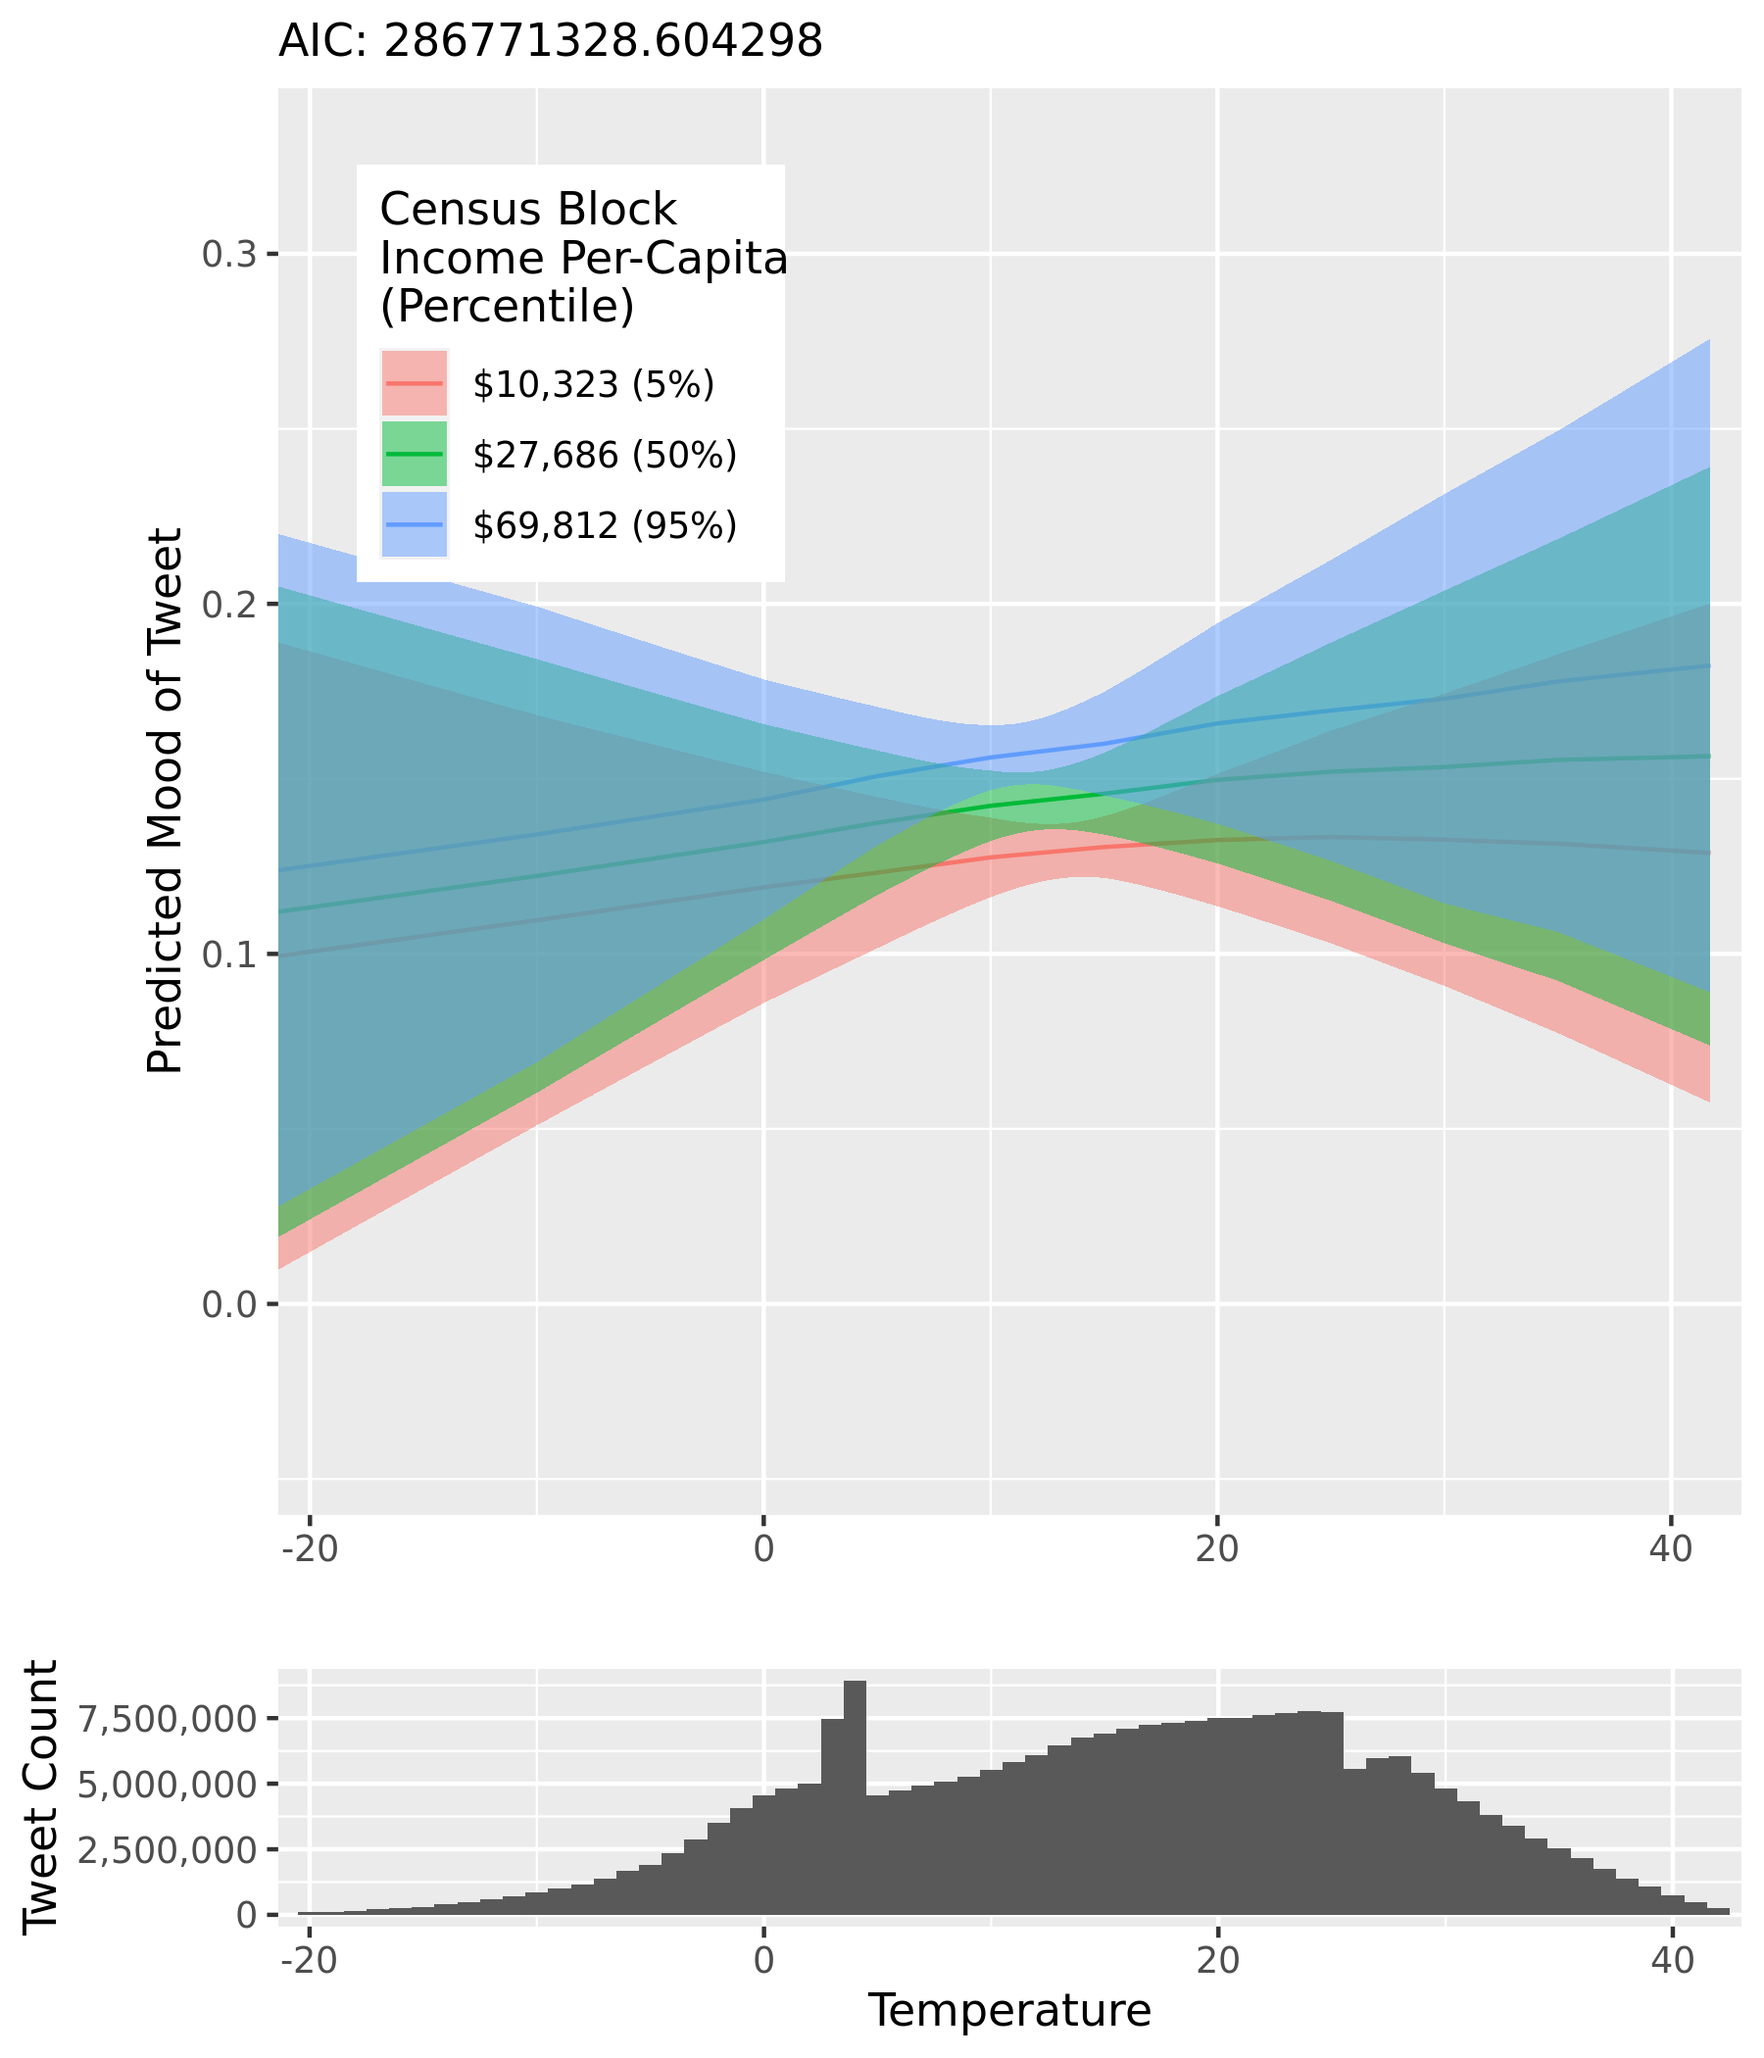
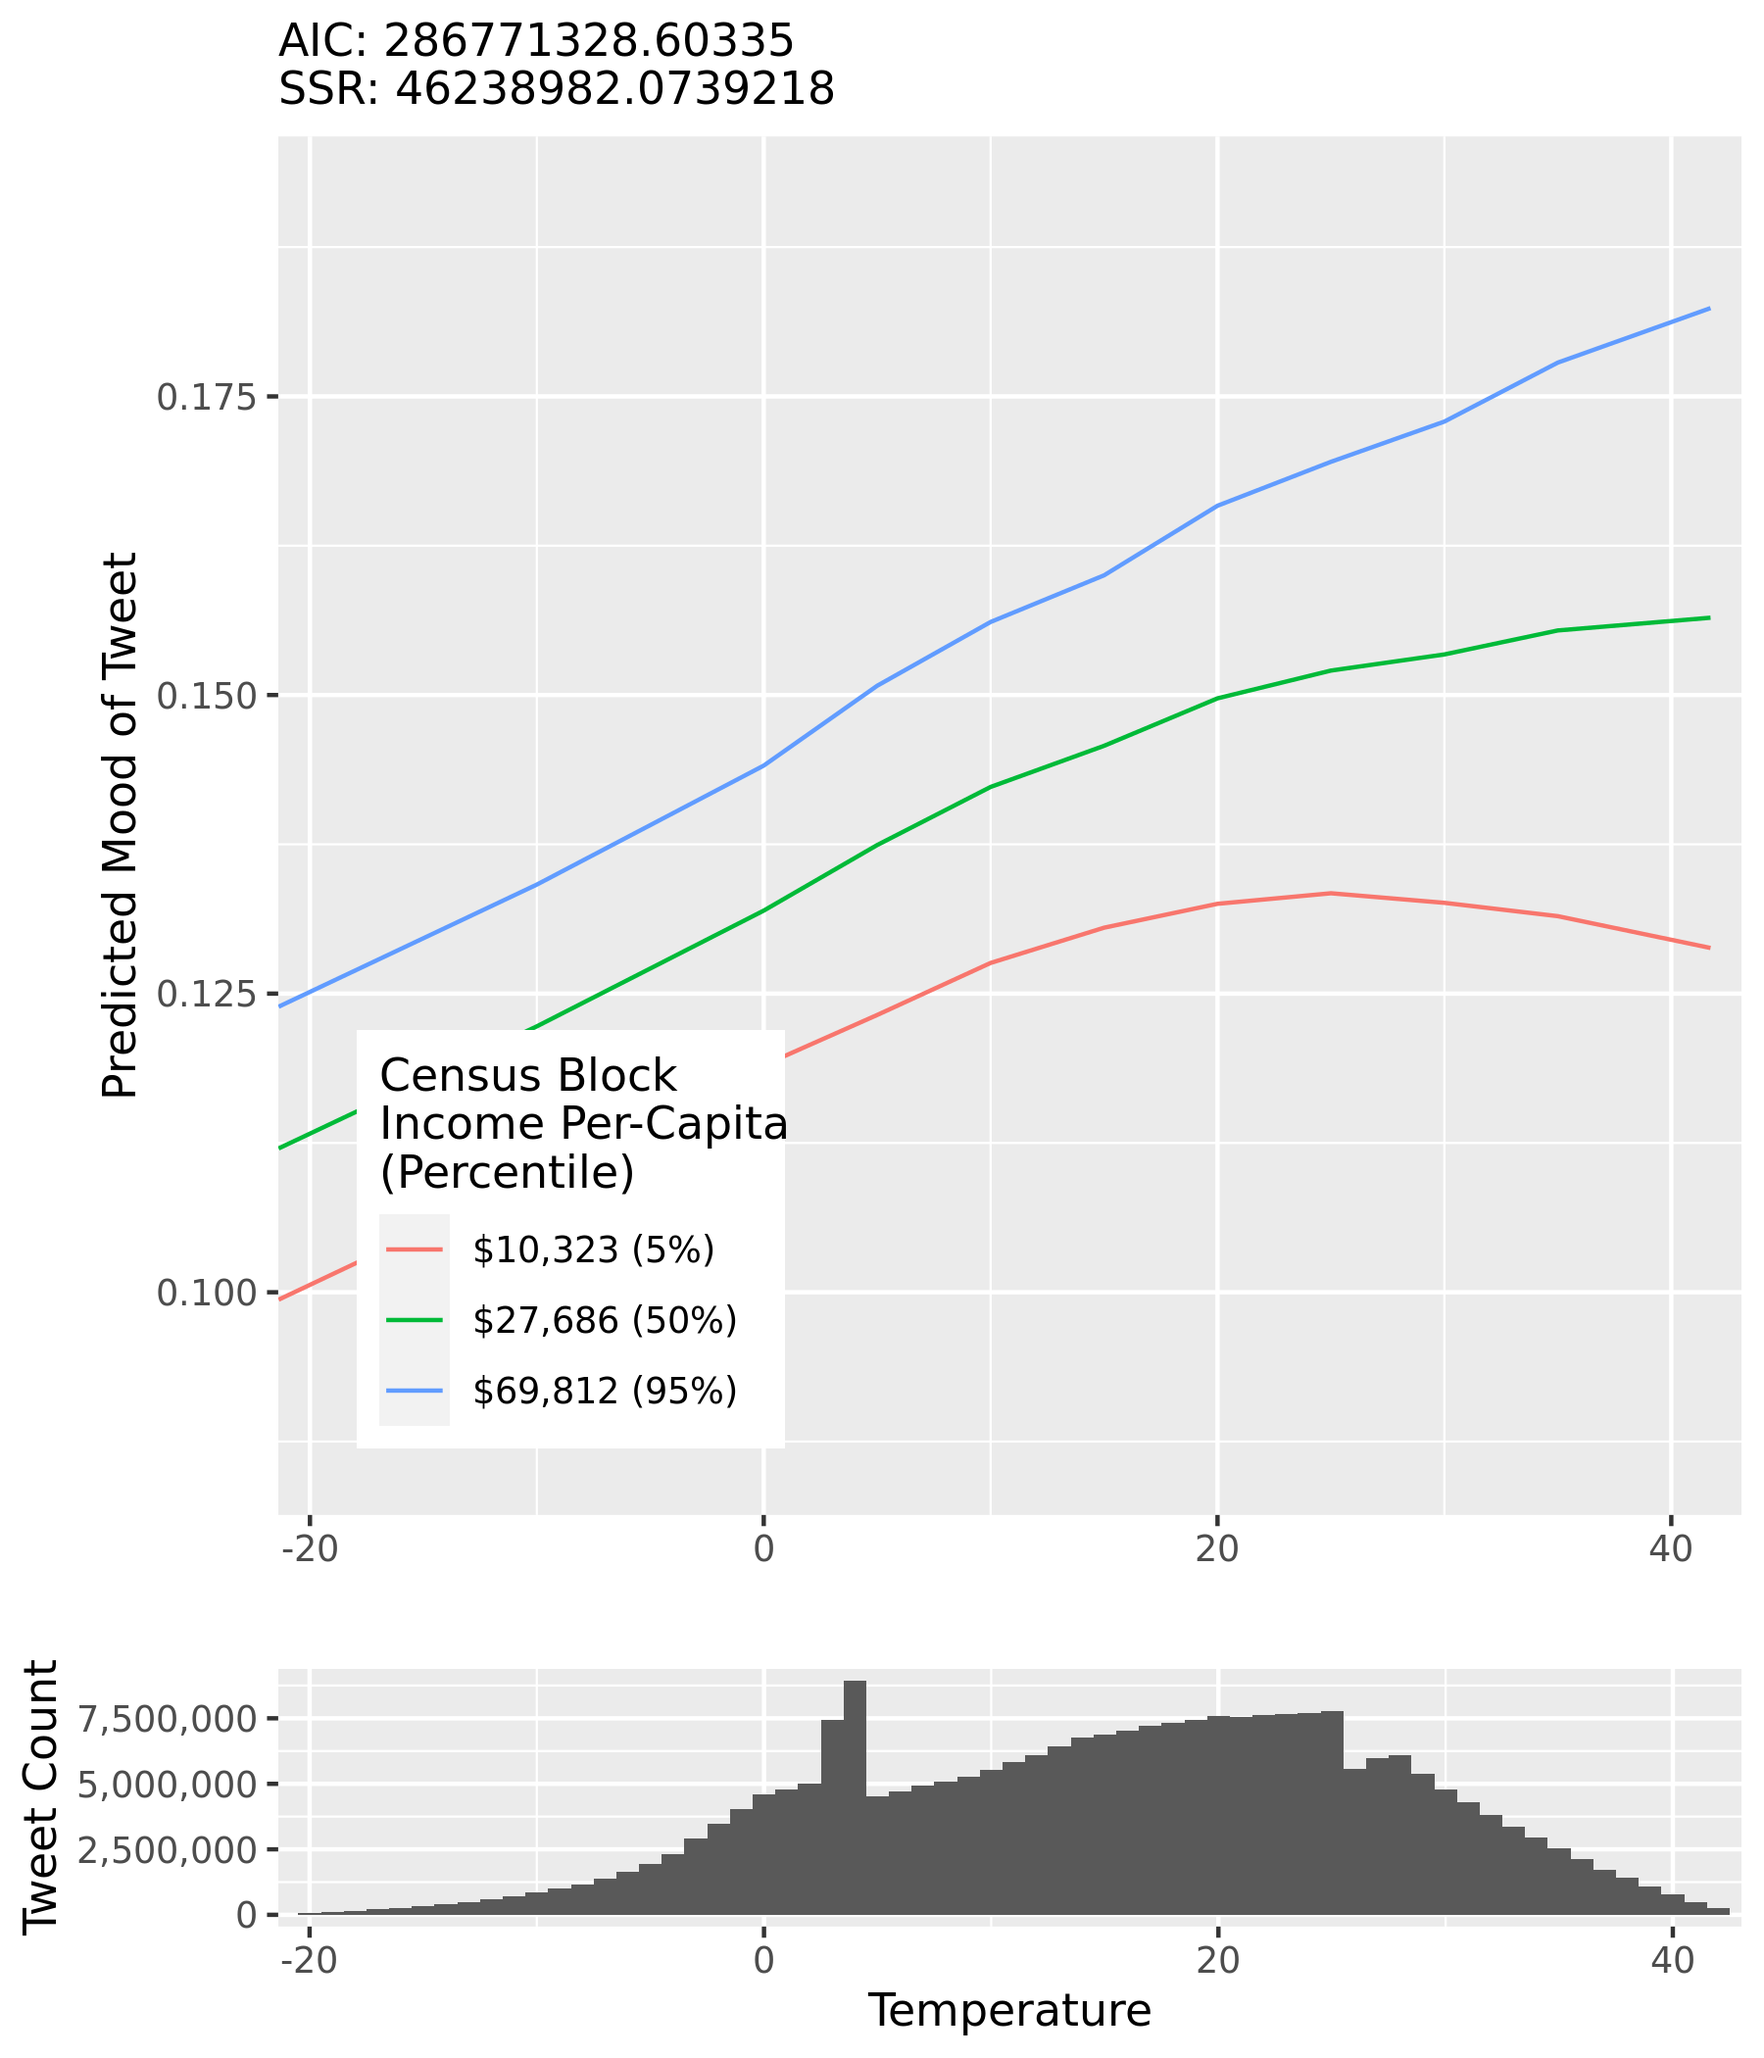
mod results without weather terms

diff --git a/model/model_sklearn_interact_continuous_predictions.py b/model/model_sklearn_interact_continuous_predictions.py
@@ -1,0 +1,192 @@
+#Run in python3.6
+
+import pandas as pd
+import numpy as np
+from scipy import sparse
+from scipy.sparse.linalg import lsqr
+from sklearn.linear_model import LinearRegression
+from sklearn.linear_model import Lasso
+from sklearn.preprocessing import OneHotEncoder
+import math
+import getpass
+import os
+
+#Model run name
+MOD_RUN = 'impervcont_moreknots'
+
+INTERACT_VAR = 'impervious'
+
+FIXED_EFFECTS = ['dow', 'doy', 'tod', 'fips', 'year', 'statemonth']
+
+FILTER_WEATHER_TERM = True
+
+SENTIMENT_VAR = 'vader'
+
+LOG_TRANSFORM = False
+
+### Local ###
+if getpass.getuser() == 'mattcoop':
+    OUT_DIR = '/home/mattcoop/tweets/mod-res/'
+    data = pd.read_csv('~/tweets/all_samp_1pct.csv')
+    savedat = False
+
+##### Cloud #####
+if getpass.getuser() == 'ubuntu':
+    OUT_DIR = '/home/ubuntu/tweets/mod-res/'
+    data = pd.read_csv('~/tweets/all.csv')
+    #data.to_hdf('/home/ubuntu/tweets/data.h5', 'data')
+    #savedat = True
+
+if FILTER_WEATHER_TERM:
+    data = data[data['weather_term'] != 1] 
+
+if LOG_TRANSFORM:
+    data[INTERACT_VAR] = data[INTERACT_VAR].apply(lambda x: math.log(x))
+
+#Remove columns we are not using right now
+cols = data.columns.tolist()
+keepcols = ['precip', 'srad', 'temp.hi'] + FIXED_EFFECTS + [INTERACT_VAR, SENTIMENT_VAR]
+dropcols = [c for c in cols if c not in keepcols]
+
+data = data.drop(columns=dropcols)
+
+#Get outcome var and remove from predictors
+y = data[[SENTIMENT_VAR]]
+data = data.drop(columns=[SENTIMENT_VAR])
+
+knots = {'temp.hi': [data['temp.hi'].min(), -10, 0, 5, 10, 15, 20, 25, 30, 35, data['temp.hi'].max()],
+        'precip': [data['precip'].min(), 0.000001, 0.05, 0.5, data['precip'].max()],
+        'srad': [data['srad'].min(), 0.000001, 250, 500, 1000, data['srad'].max()]}
+
+#Make predictor matrix with ranges between the knots and with segments of length 10 in the knots
+def make_range(l):
+    r = []
+    for i in range(1, len(l)):
+        r = r + np.linspace(l[i-1], l[i], 10, endpoint=False).tolist()
+    return(r)
+
+pred = pd.concat([pd.DataFrame({'temp.hi': make_range(knots['temp.hi'])}),
+           pd.DataFrame({'precip': make_range(knots['precip'])}),
+           pd.DataFrame({'srad': make_range(knots['srad'])})]).fillna(0)
+
+q = np.quantile(data[INTERACT_VAR], q=[0.1, 0.3, 0.5, 0.7, 0.9])
+
+pred = pd.concat([pred]*5)
+
+pred[INTERACT_VAR] = np.repeat(q, pred.shape[0]/5)
+
+############################################
+# Set up accumulator sparse matrices
+############################################
+predX = sparse.hstack([np.ones([pred.shape[0], 1]), 
+                       sparse.csr_matrix(pred[['temp.hi', 'precip', 'srad', INTERACT_VAR]].values)])
+dataX = sparse.hstack([np.ones([data.shape[0], 1]), 
+                       sparse.csr_matrix(data[['temp.hi', 'precip', 'srad', INTERACT_VAR]].values)])
+labs = ['intercept', 'temp.hi', 'precip', 'srad', INTERACT_VAR]
+
+###############################################
+#Make continuous segments for predictor vars
+###############################################
+for c in knots['precip'][:-1]:
+    print('precip', c)
+    #Add raw segmented weather terms
+    labs.append('precip_' + str(c))
+    predX = sparse.hstack([predX, sparse.csr_matrix(pd.DataFrame(np.maximum(0, pred['precip'] - c)))])
+    dataX = sparse.hstack([dataX, sparse.csr_matrix(pd.DataFrame(np.maximum(0, data['precip'] - c)))])
+    #Add interacted segmented weather terms
+    labs.append('precip_' + INTERACT_VAR + '_' + str(c))
+    predX = sparse.hstack([predX, sparse.csr_matrix(pd.DataFrame(np.maximum(0, pred['precip'] - c)*pred[INTERACT_VAR]))])
+    dataX = sparse.hstack([dataX, sparse.csr_matrix(pd.DataFrame(np.maximum(0, data['precip'] - c)*data[INTERACT_VAR]))])
+
+for c in knots['temp.hi'][:-1]:
+    print('temp.hi', c)
+    labs.append('temp.hi_' + str(c))
+    predX = sparse.hstack([predX, sparse.csr_matrix(pd.DataFrame(np.maximum(0, pred['temp.hi'] - c)))])
+    dataX = sparse.hstack([dataX, sparse.csr_matrix(pd.DataFrame(np.maximum(0, data['temp.hi'] - c)))])
+    labs.append('temp.hi_' + INTERACT_VAR + '_' + str(c))
+    predX = sparse.hstack([predX, sparse.csr_matrix(pd.DataFrame(np.maximum(0, pred['temp.hi'] - c)*pred[INTERACT_VAR]))])
+    dataX = sparse.hstack([dataX, sparse.csr_matrix(pd.DataFrame(np.maximum(0, data['temp.hi'] - c)*data[INTERACT_VAR]))])
+
+for c in knots['srad'][:-1]:
+    print('srad', c)
+    labs.append('srad_' + str(c))
+    predX = sparse.hstack([predX, sparse.csr_matrix(pd.DataFrame(np.maximum(0, pred['srad'] - c)))])
+    dataX = sparse.hstack([dataX, sparse.csr_matrix(pd.DataFrame(np.maximum(0, data['srad'] - c)))])
+    labs.append('srad_' + INTERACT_VAR + '_' + str(c))
+    predX = sparse.hstack([predX, sparse.csr_matrix(pd.DataFrame(np.maximum(0, pred['srad'] - c)*pred[INTERACT_VAR]))])
+    dataX = sparse.hstack([dataX, sparse.csr_matrix(pd.DataFrame(np.maximum(0, data['srad'] - c)*data[INTERACT_VAR]))])
+
+##############################################
+#Make Cateogorical Vars for Control Variables
+##############################################
+
+cat_vars = data[FIXED_EFFECTS]
+del data # Delete data for memory purposes, not that we have full sparse matrices
+
+enc = OneHotEncoder(drop='first', sparse=True)
+enccat = enc.fit(cat_vars)
+cat_vars = enccat.transform(cat_vars)
+
+labs = labs + enccat.get_feature_names(FIXED_EFFECTS).tolist()
+predX = sparse.hstack([predX, sparse.csr_matrix(np.full([pred.shape[0], cat_vars.shape[1]], 0))])
+dataX = sparse.hstack([dataX, cat_vars])
+
+#########################
+#Now run regression
+#########################
+mod = LinearRegression(fit_intercept=False).fit(dataX, y)
+coef_res = pd.DataFrame({'names': labs,
+                        'coefs': mod.coef_.tolist()[0]})
+
+p = mod.predict(predX)
+pred['predicted'] = mod.predict(predX)
+
+#Write results
+coef_res.to_csv(OUT_DIR + MOD_RUN + '_coefs.csv', index=False)
+pred.to_csv(OUT_DIR + MOD_RUN + '_preds.csv', index=False)
+
+os.system('/home/ubuntu/telegram.sh "End of Model"')
+
+quit()
+
+
+#Get standard errors of coefficients and predictions
+#https://stackoverflow.com/questions/22381497/python-scikit-learn-linear-model-parameter-standard-error
+#https://otexts.com/fpp2/regression-matrices.html
+#https://stats.stackexchange.com/questions/64069/can-we-calculate-the-standard-error-of-prediction-just-based-on-simple-linear-re
+
+y_hat = mod.predict(dataX)
+residuals = y - y_hat
+N, p = dataX.shape
+residual_sum_of_squares = residuals.T @ residuals
+sigma_squared_hat = residual_sum_of_squares.iloc[0][0] / (N - p)
+XpXinv = sparse.linalg.inv(sparse.csc_matrix(dataX.T @ dataX))
+var_beta_hat = XpXinv * sigma_squared_hat
+
+#Getting negatives, cant be right?
+diag = var_beta_hat.diagonal()
+coef_res['standarderror'] = diag ** 0.5
+coef_res.to_csv(OUT_DIR + MOD_RUN + '_coefs.csv', index=False)
+
+predXcsr = predX.tocsr()
+
+pred = pred.reset_index()
+
+for i in range(pred.shape[0]):
+    try:
+        se = np.nan
+        x_star = predXcsr[i,:]
+        se = math.sqrt(sigma_squared_hat)*math.sqrt(1/N + (x_star @ XpXinv @ x_star.T)[0,0])
+        pred.loc[i, 'se'] = se
+        se = np.nan
+    except:
+        print('NBD')
+
+pred.to_csv(OUT_DIR + MOD_RUN + '_preds.csv', index=False)
+
+import pickle
+pickle.dump(mod, open(OUT_DIR + MOD_RUN + '_mod.sav', 'wb'))
+
+os.system('/home/ubuntu/telegram.sh "End of Standard Errors"')
+
+
